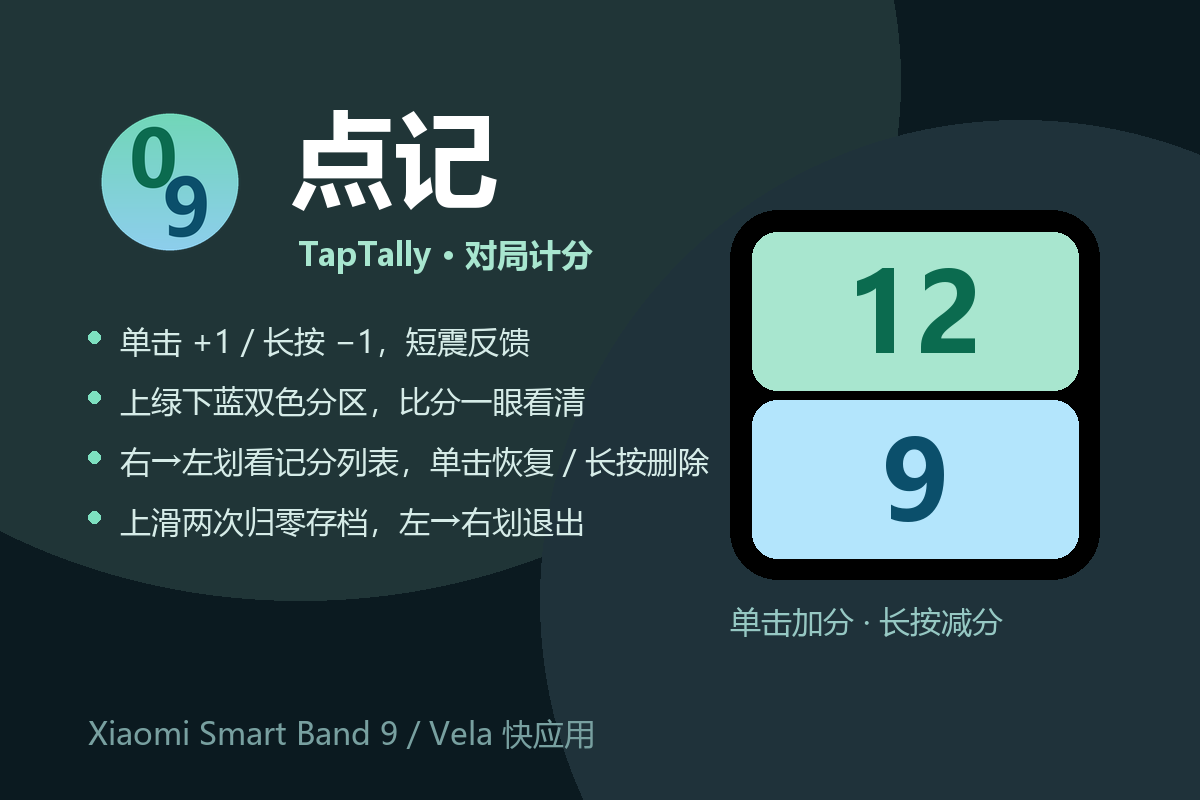
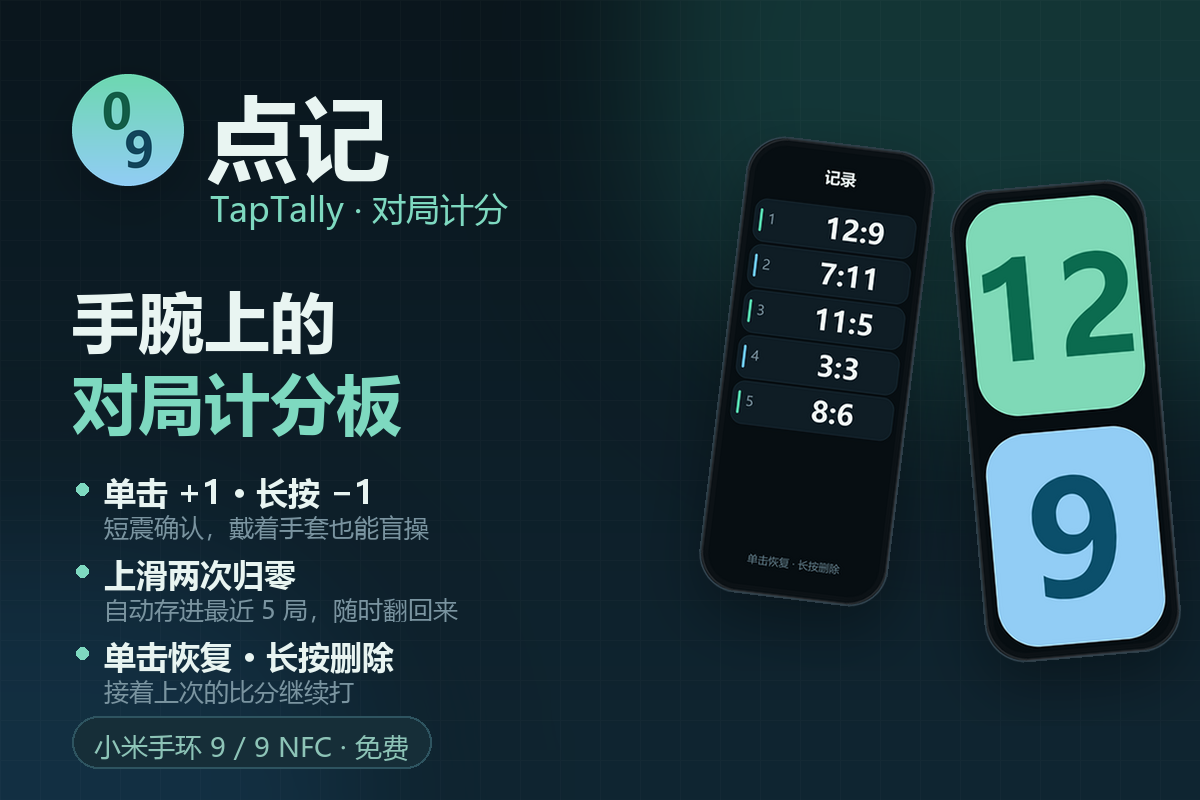
fix(review): 作者绑定 AstroBox 账号 + 重做封面与预览图
- manifest_v2 item.author 改为 {name:'丨长河落丨', bindABAccount:true}
  （AstroBox 前端按 name 作为 username 查 account.profile，故必须与账号用户名一致）
- 封面重做：左侧品牌+主张+卖点，右侧两台手环真实界面渲染（记分页/记录页）
- 新增 media/preview-3.png（记录页），preview 现在三张
- publish/gen_cover.py：从 App 的尺寸/配色/字号公式一比一渲染界面
- .gitignore 忽略 sign/（自签发布证书）

diff --git a/publish/gen_cover.py b/publish/gen_cover.py
@@ -1,0 +1,254 @@
+# -*- coding: utf-8 -*-
+"""生成 AstroBox 社区源封面（1200×800，严格 3:2）。
+
+思路（对应官方《资源封面指南》的「图文左右分栏」）：
+  · 左侧：品牌标 + 一句主张 + 三条卖点 + 设备/价格标签
+  · 右侧：两台手环的**真实界面渲染**（记分页 / 记分记录页），带机身边框与投影
+
+界面不是画的示意图，而是按 src/pages 里的尺寸、圆角、配色、字号一比一渲染，
+所以「所见即所得」——装到手上就是这张图里的样子。
+"""
+import math
+import os
+
+from PIL import Image, ImageDraw, ImageFilter, ImageFont
+
+HERE = os.path.dirname(os.path.abspath(__file__))
+ROOT = os.path.dirname(HERE)
+MEDIA = os.path.join(ROOT, "media")
+
+FB = r"C:\Windows\Fonts\msyhbd.ttc"   # 雅黑 Bold
+FR = r"C:\Windows\Fonts\msyh.ttc"     # 雅黑 Regular
+
+# 与 App 一致的配色
+BG_APP = (7, 14, 18)
+CARD_T = (127, 217, 183)
+CARD_T_B = (159, 240, 213)
+CARD_B = (146, 205, 245)
+CARD_B_B = (191, 230, 255)
+INK_T = (11, 107, 79)
+INK_B = (11, 79, 107)
+ITEM_BG = (15, 29, 37)
+ACC_A = (86, 217, 174)
+ACC_B = (108, 197, 243)
+
+# 设计基准（与 index.ux 相同：设计宽 480，手环 9 屏 192×490 -> 设计高 1225）
+DW, DH = 480, 1225
+
+
+def font(path, size):
+    return ImageFont.truetype(path, max(6, int(size)))
+
+
+def center_text(d, box, text, f, fill):
+    x0, y0, x1, y1 = box
+    bb = d.textbbox((0, 0), text, font=f)
+    w, h = bb[2] - bb[0], bb[3] - bb[1]
+    d.text((x0 + (x1 - x0 - w) / 2 - bb[0], y0 + (y1 - y0 - h) / 2 - bb[1]), text, font=f, fill=fill)
+
+
+def render_score_page(ss=3):
+    """记分页：两张 110px 圆角卡片，上绿下蓝，比分 12 : 9。"""
+    W, H = DW * ss, DH * ss
+    img = Image.new("RGB", (W, H), BG_APP)
+    d = ImageDraw.Draw(img)
+    pad, gap = 14 * ss, 49 * ss
+    card_h = (H - 2 * pad - gap) // 2
+    card_w = W - 2 * pad
+    r = 110 * ss
+    for top, bg, brd, txt, ink, val in (
+            (True, CARD_T, CARD_T_B, "12", INK_T, "12"),
+            (False, CARD_B, CARD_B_B, "9", INK_B, "9")):
+        y0 = pad if top else pad + card_h + gap
+        d.rounded_rectangle([pad, y0, pad + card_w, y0 + card_h], radius=r,
+                            fill=bg, outline=brd, width=2 * ss)
+        # 与 index.ux 的 sizeFor() 同一套公式：min(卡宽/(0.6×位数)×0.96, 卡高×0.74, 430)
+        fs = min(card_w / (0.6 * len(val)) * 0.96, card_h * 0.74, 430 * ss) / ss
+        center_text(d, (pad, y0, pad + card_w, y0 + card_h), val, font(FB, fs * ss), ink)
+    return img.resize((192, 490), Image.LANCZOS)
+
+
+def render_history_page(ss=3):
+    """记分记录页：标题 + 5 条记录（序号左侧、比分居中）。"""
+    W, H = DW * ss, DH * ss
+    img = Image.new("RGB", (W, H), BG_APP)
+    d = ImageDraw.Draw(img)
+    pad = 14 * ss
+    head_h = int(H * 0.12)
+    list_h = int(H * 0.78)
+    center_text(d, (0, 0, W, head_h), "记录", font(FB, DH * 0.036 * ss), (232, 245, 242))
+
+    item_h = int(H * 0.104)
+    rows = [("12", "9"), ("7", "11"), ("11", "5"), ("3", "3"), ("8", "6")]
+    y = head_h + 6 * ss
+    for i, (t, b) in enumerate(rows):
+        if y + item_h > head_h + list_h:
+            break
+        d.rounded_rectangle([pad, y, W - pad, y + item_h - 8 * ss], radius=int(item_h * 0.26),
+                            fill=ITEM_BG, outline=(34, 56, 68), width=1 * ss)
+        # 左侧色条
+        bw = int(item_h * 0.055)
+        d.rounded_rectangle([pad + item_h * 0.12, y + item_h * 0.22,
+                             pad + item_h * 0.12 + bw, y + item_h * 0.78 - 8 * ss],
+                            radius=bw // 2, fill=ACC_A if i % 2 == 0 else ACC_B)
+        # 序号
+        d.text((pad + item_h * 0.30, y + item_h * 0.22), str(i + 1),
+               font=font(FR, item_h * 0.30), fill=(120, 143, 155))
+        # 比分
+        val = "%s:%s" % (t, b)
+        center_text(d, (pad + item_h * 0.9, y, W - pad, y + item_h - 8 * ss), val,
+                    font(FB, item_h * 0.62), (238, 246, 244))
+        y += item_h
+    center_text(d, (0, int(H * 0.88), W, H), "单击恢复 · 长按删除",
+                font(FR, DH * 0.024 * ss), (96, 122, 134))
+    return img.resize((192, 490), Image.LANCZOS)
+
+
+def device(screen, bezel=10, radius=34):
+    """把 192×490 的界面装进手环机身（深色边框 + 圆角 + 高光）。"""
+    s = 3  # 超采样
+    bw, bh = (192 + bezel * 2) * s, (490 + bezel * 2) * s
+    dev = Image.new("RGBA", (bw, bh), (0, 0, 0, 0))
+    d = ImageDraw.Draw(dev)
+    # 机身
+    d.rounded_rectangle([0, 0, bw - 1, bh - 1], radius=(radius + bezel) * s,
+                        fill=(12, 18, 22, 255), outline=(46, 62, 72, 255), width=2 * s)
+    # 屏幕
+    sc = screen.resize((192 * s, 490 * s), Image.LANCZOS).convert("RGBA")
+    mask = Image.new("L", sc.size, 0)
+    ImageDraw.Draw(mask).rounded_rectangle([0, 0, sc.size[0] - 1, sc.size[1] - 1],
+                                           radius=radius * s, fill=255)
+    dev.paste(sc, (bezel * s, bezel * s), mask)
+    # 左上高光
+    hl = Image.new("RGBA", dev.size, (0, 0, 0, 0))
+    ImageDraw.Draw(hl).rounded_rectangle([2 * s, 2 * s, bw - 2 * s, bh - 2 * s],
+                                         radius=(radius + bezel) * s,
+                                         outline=(255, 255, 255, 26), width=2 * s)
+    dev = Image.alpha_composite(dev, hl)
+    return dev.resize((192 + bezel * 2, 490 + bezel * 2), Image.LANCZOS)
+
+
+def shadow(img, blur=26, alpha=120, dy=18):
+    a = img.split()[3].point(lambda v: min(255, int(v * alpha / 255)))
+    sh = Image.new("RGBA", img.size, (0, 0, 0, 0))
+    sh.putalpha(a)
+    pad = blur * 2
+    big = Image.new("RGBA", (img.size[0] + pad * 2, img.size[1] + pad * 2), (0, 0, 0, 0))
+    big.paste(sh, (pad, pad + dy), sh)
+    return big.filter(ImageFilter.GaussianBlur(blur)), pad
+
+
+def vgrad(w, h, top, bottom):
+    g = Image.new("RGB", (1, h))
+    d = ImageDraw.Draw(g)
+    for y in range(h):
+        k = y / max(1, h - 1)
+        d.point((0, y), tuple(int(top[i] + (bottom[i] - top[i]) * k) for i in range(3)))
+    return g.resize((w, h), Image.BILINEAR)
+
+
+def logo(size):
+    """圆形渐变图标：上绿下蓝，0 左上、9 右下（与 src/common/logo.png 同款）。"""
+    ss = 4
+    S = size * ss
+    inner = vgrad(S, S, (109, 216, 176), (146, 205, 245)).convert("RGBA")
+    mask = Image.new("L", (S, S), 0)
+    ImageDraw.Draw(mask).ellipse([0, 0, S - 1, S - 1], fill=255)
+    img = Image.new("RGBA", (S, S), (0, 0, 0, 0))
+    img.paste(inner, (0, 0), mask)
+    d = ImageDraw.Draw(img)
+    f = font(FB, S * 0.44)
+    for txt, cx, cy, col in (("0", 0.40, 0.33, (18, 92, 70)), ("9", 0.60, 0.67, (17, 68, 90))):
+        bb = d.textbbox((0, 0), txt, font=f)
+        w, h = bb[2] - bb[0], bb[3] - bb[1]
+        d.text((S * cx - w / 2 - bb[0], S * cy - h / 2 - bb[1]), txt, font=f, fill=col)
+    return img.resize((size, size), Image.LANCZOS)
+
+
+def build():
+    W, H = 1200, 800
+    bg = vgrad(W, H, (10, 22, 29), (16, 38, 50)).convert("RGBA")
+    # 右上大光斑
+    glow = Image.new("RGBA", (W, H), (0, 0, 0, 0))
+    gd = ImageDraw.Draw(glow)
+    gd.ellipse([W - 620, -260, W + 180, 460], fill=(38, 122, 108, 78))
+    gd.ellipse([-220, H - 320, 420, H + 220], fill=(28, 78, 116, 64))
+    bg = Image.alpha_composite(bg, glow.filter(ImageFilter.GaussianBlur(90)))
+
+    # 细网格
+    grid = Image.new("RGBA", (W, H), (0, 0, 0, 0))
+    gdd = ImageDraw.Draw(grid)
+    for x in range(0, W, 40):
+        gdd.line([(x, 0), (x, H)], fill=(255, 255, 255, 5))
+    for y in range(0, H, 40):
+        gdd.line([(0, y), (W, y)], fill=(255, 255, 255, 5))
+    bg = Image.alpha_composite(bg, grid)
+
+    d = ImageDraw.Draw(bg)
+
+    # ── 左侧品牌 ─────────────────────────────
+    ic = logo(112)
+    sh, pad = shadow(ic, blur=20, alpha=110, dy=14)
+    bg.alpha_composite(sh, (72 - pad, 74 - pad))
+    bg.alpha_composite(ic, (72, 74))
+    d = ImageDraw.Draw(bg)
+    d.text((206, 74), "点记", font=font(FB, 92), fill=(233, 245, 242))
+    d.text((210, 186), "TapTally · 对局计分", font=font(FR, 34), fill=(126, 217, 192))
+
+    # ── 主标题 ───────────────────────────────
+    d.text((72, 276), "手腕上的", font=font(FB, 66), fill=(233, 245, 242))
+    d.text((72, 358), "对局计分板", font=font(FB, 66), fill=(126, 217, 192))
+
+    # ── 卖点 ─────────────────────────────────
+    bullets = [
+        ("单击 +1 · 长按 −1", "短震确认，戴着手套也能盲操"),
+        ("上滑两次归零", "自动存进最近 5 局，随时翻回来"),
+        ("单击恢复 · 长按删除", "接着上次的比分继续打"),
+    ]
+    y = 470
+    for title, sub in bullets:
+        d.ellipse([76, y + 13, 88, y + 25], fill=(126, 217, 192))
+        d.text((104, y), title, font=font(FB, 32), fill=(232, 244, 241))
+        d.text((104, y + 40), sub, font=font(FR, 25), fill=(122, 148, 160))
+        y += 82
+
+    # ── 底部标签 ─────────────────────────────
+    tag = "小米手环 9 / 9 NFC · 免费"
+    tw = d.textlength(tag, font=font(FR, 27))
+    d.rounded_rectangle([72, 716, 72 + 22 + tw + 22, 768], radius=26,
+                        fill=(22, 46, 56), outline=(46, 84, 96), width=2)
+    d.text((94, 728), tag, font=font(FR, 27), fill=(141, 196, 183))
+
+    # ── 右侧设备 ─────────────────────────────
+    score = device(render_score_page())
+    hist = device(render_history_page())
+
+    # 轻微旋转制造层次
+    def rot(im, deg, scale=1.0):
+        im2 = im.resize((int(im.size[0] * scale), int(im.size[1] * scale)), Image.LANCZOS)
+        return im2.rotate(deg, resample=Image.BICUBIC, expand=True)
+
+    hist_r = rot(hist, -7, 0.90)
+    score_r = rot(score, 5, 0.93)
+
+    for im, pos in ((hist_r, (694, 132)), (score_r, (946, 176))):
+        sh, pad = shadow(im, blur=30, alpha=150, dy=24)
+        bg.alpha_composite(sh, (pos[0] - pad, pos[1] - pad))
+        bg.alpha_composite(im, pos)
+
+    out = bg.convert("RGB")
+    p = os.path.join(MEDIA, "cover.png")
+    out.save(p, optimize=True)
+    print("wrote", p, out.size, os.path.getsize(p), "bytes")
+    # 预览图：封面本身 + 两张真实界面
+    out.save(os.path.join(MEDIA, "preview-1.png"), optimize=True)
+    top = Image.new("RGB", (384, 980), BG_APP)
+    top.paste(render_score_page(ss=2).resize((384, 980), Image.LANCZOS), (0, 0))
+    top.save(os.path.join(MEDIA, "preview-2.png"), optimize=True)
+    hist_big = render_history_page(ss=2).resize((384, 980), Image.LANCZOS)
+    hist_big.save(os.path.join(MEDIA, "preview-3.png"), optimize=True)
+    print("wrote previews")
+
+
+if __name__ == "__main__":
+    build()
